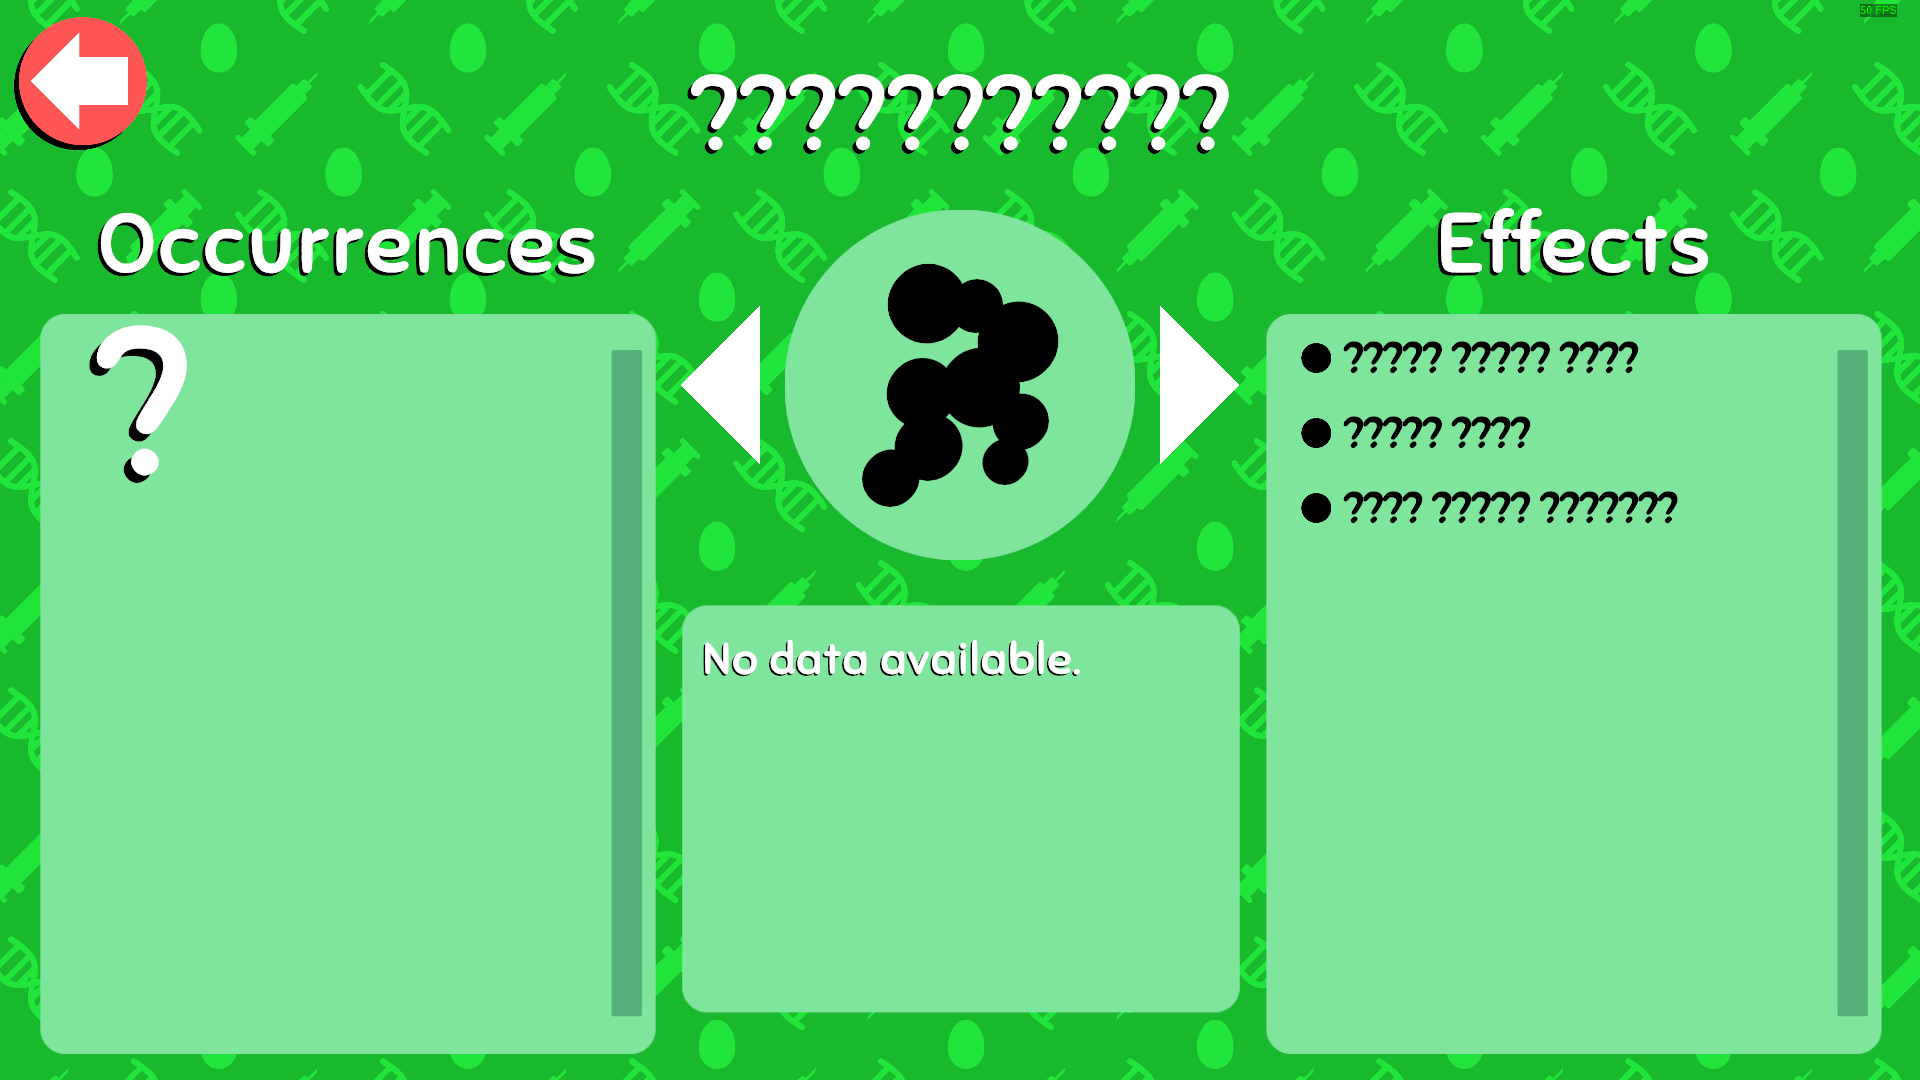
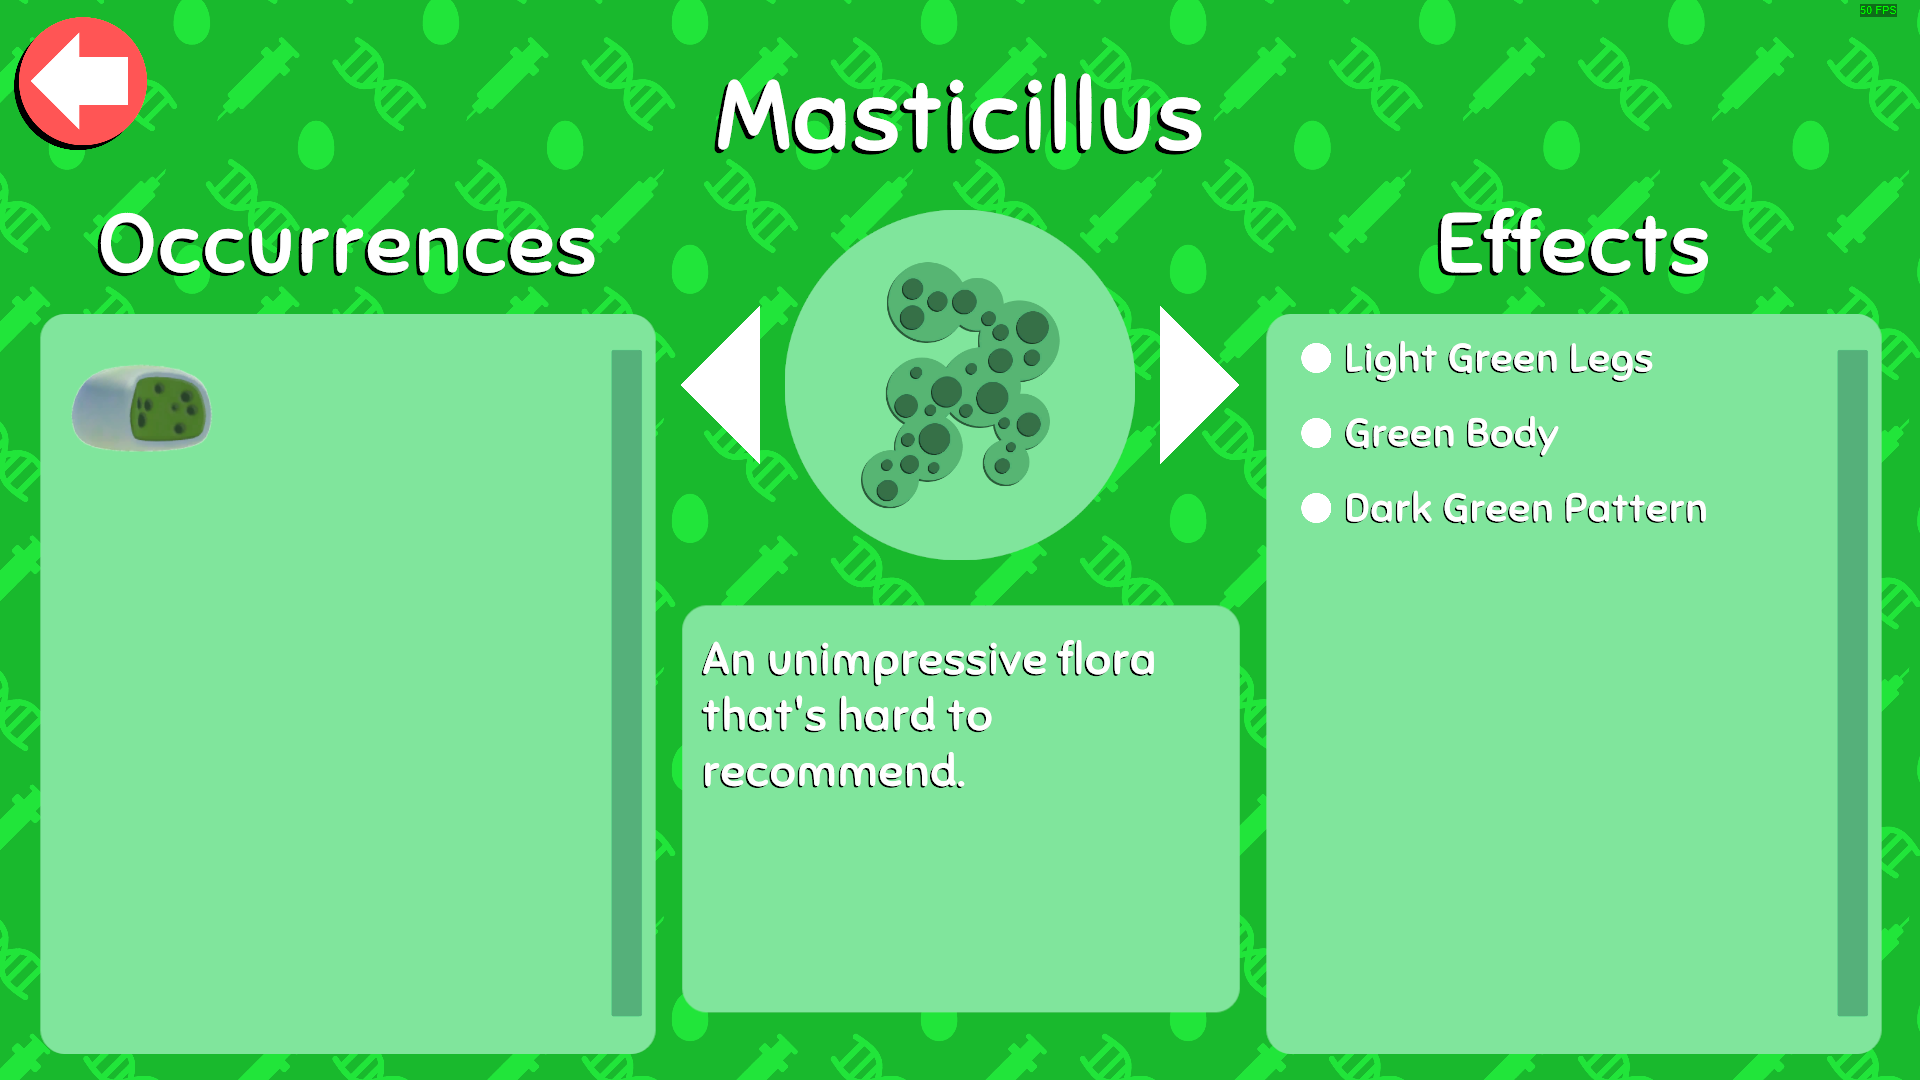
added more

diff --git a/src/flora.ts b/src/flora.ts
@@ -20,7 +20,7 @@ export const x1042: Flora = {
   description:
     "An artificially engineered flora that aims to encourage dog growth.",
   foods: [food.chip, food.nutritionalPellet],
-  effects: [effect.longLegs, effect.longLegs],
+  effects: [effect.longLegs, effect.orangeColoration],
   rarities: [circle, circle],
 };
 
@@ -117,7 +117,7 @@ export const clisotriumLatriphilius: Flora = {
   image: "flora_1_0",
   description:
     "A beneficial flora often used to help acclimate dogs to cold weather climates.",
-  foods: [food.burrito, food.coconut, food.unknown, food.cheeseBall],
+  foods: [food.burrito, food.coconut, food.mochiBall, food.cheeseBall],
   effects: [effect.thickBody, effect.shortLegs],
   rarities: [circle, circle],
 };
@@ -288,12 +288,12 @@ export const magnilium: Flora = {
   rarities: [circle],
 };
 
-export const flora28: Flora = {
-  name: "???????????",
+export const masticillus: Flora = {
+  name: "Masticillus",
   image: "flora_2_8",
-  description: "No data available.",
+  description: "An unimpressive flora that's hard to recommend.",
   foods: [food.unknown],
-  effects: [effect.unknown, effect.unknown, effect.unknown],
+  effects: [effect.lightGreenLegs, effect.greenBody, effect.darkGreenPattern],
   rarities: [circle, circle, circle],
 };
 
@@ -349,7 +349,7 @@ export const phenobacti: Flora = {
   description: "Crystalized flora with a mysterious past.",
   foods: [
     food.unknown,
-    food.unknown,
+    food.mochiBall,
     food.chickenNugget,
     food.boxOfRaisins,
     food.deviledEgg,
@@ -513,7 +513,7 @@ export const floras: Flora[] = [
   luciumColi,
   luxillium,
   magnilium,
-  flora28,
+  masticillus,
   minimillius,
   nasusEnterica,
   peptocoli,

diff --git a/src/effect.ts b/src/effect.ts
@@ -63,6 +63,9 @@ export const pinkLegs: Effect = { name: "Pink Legs" };
 export const pinkHead: Effect = { name: "Pink Head" };
 export const blueLegs: Effect = { name: "Blue Legs" };
 export const blueNoseEars: Effect = { name: "Blue Nose/Ears" };
+export const lightGreenLegs: Effect = { name: "Light Green Legs" };
+export const greenBody: Effect = { name: "Green Body" };
+export const darkGreenPattern: Effect = { name: "Dark Green Pattern" };
 
 export const effects: Effect[] = [
   unknown,
@@ -126,4 +129,7 @@ export const effects: Effect[] = [
   pinkHead,
   blueLegs,
   blueNoseEars,
+  lightGreenLegs,
+  greenBody,
+  darkGreenPattern,
 ];

diff --git a/src/food.ts b/src/food.ts
@@ -176,6 +176,10 @@ export const miniPumpkin: Food = {
   name: "Mini Pumpkin",
   image: "mini-pumpkin",
 };
+export const mochiBall: Food = {
+  name: "Mochi Ball",
+  image: "mochi-ball",
+};
 export const moonCheese: Food = {
   name: "Moon Cheese",
   image: "moon-cheese",
@@ -261,6 +265,7 @@ export const foods: Food[] = [
   lunarPie,
   macaron,
   miniPumpkin,
+  mochiBall,
   moonCheese,
   nutritionalPellet,
   onionRing,

diff --git a/src/images.py b/src/images.py
@@ -101,6 +101,7 @@ def crop_grid_from_folder(source_folder, output_folder, low_variance_output_fold
         "flora-0-8-food-0-1": "pancake",
         "flora-1-0-food-0-0": "burrito",
         "flora-1-0-food-0-1": "coconut",
+        "flora-1-0-food-0-2": "mochi-ball",
         "flora-1-1-food-0-0": "fish-pellet",
         "flora-1-0-food-1-0": "cheese-ball",
         "flora-1-2-food-1-0": "pumpkin-pie",
